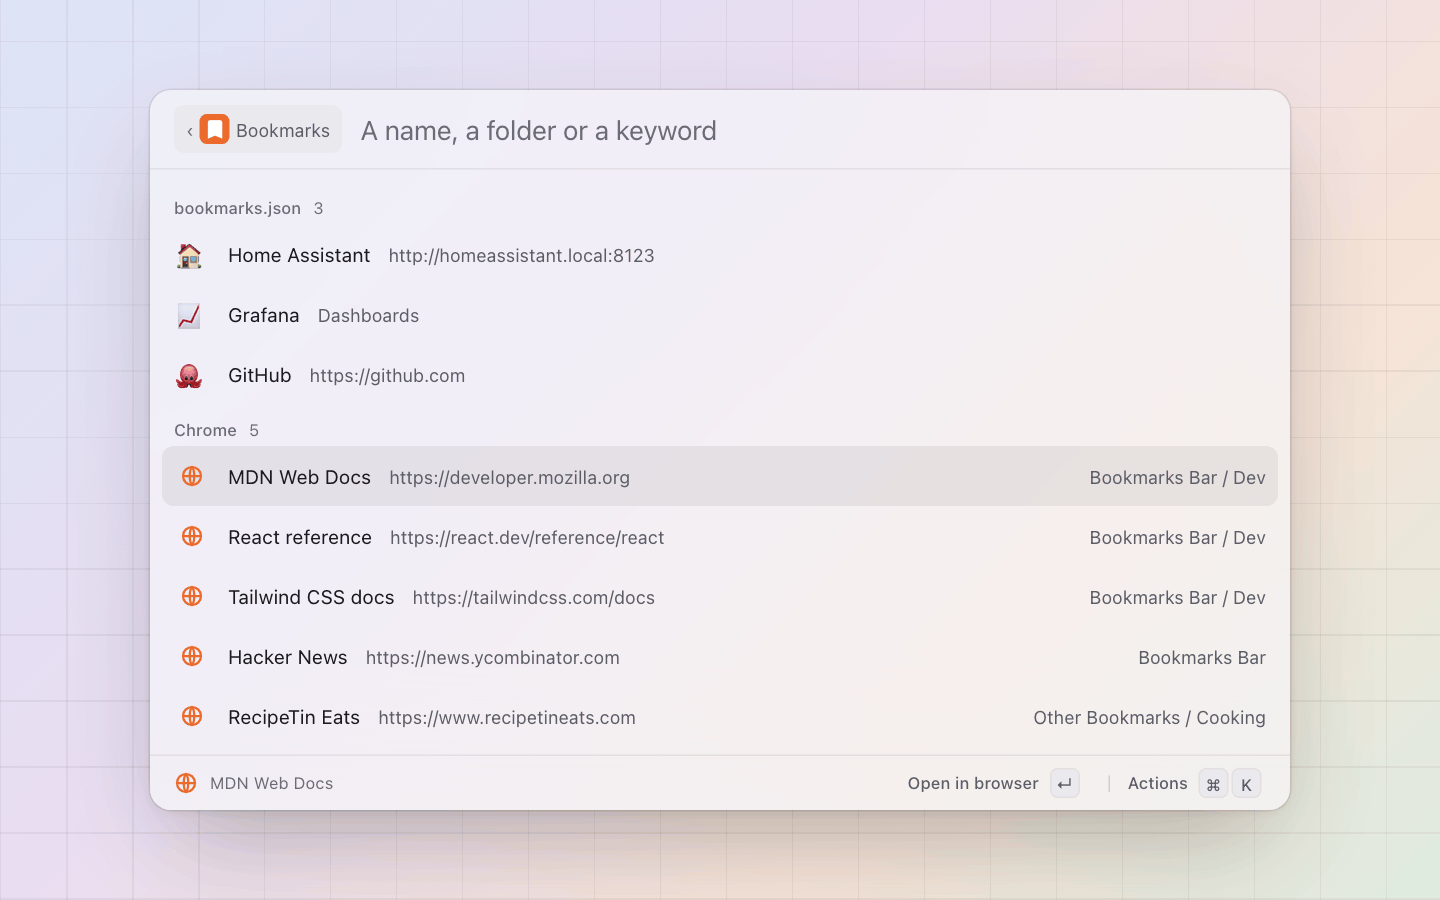
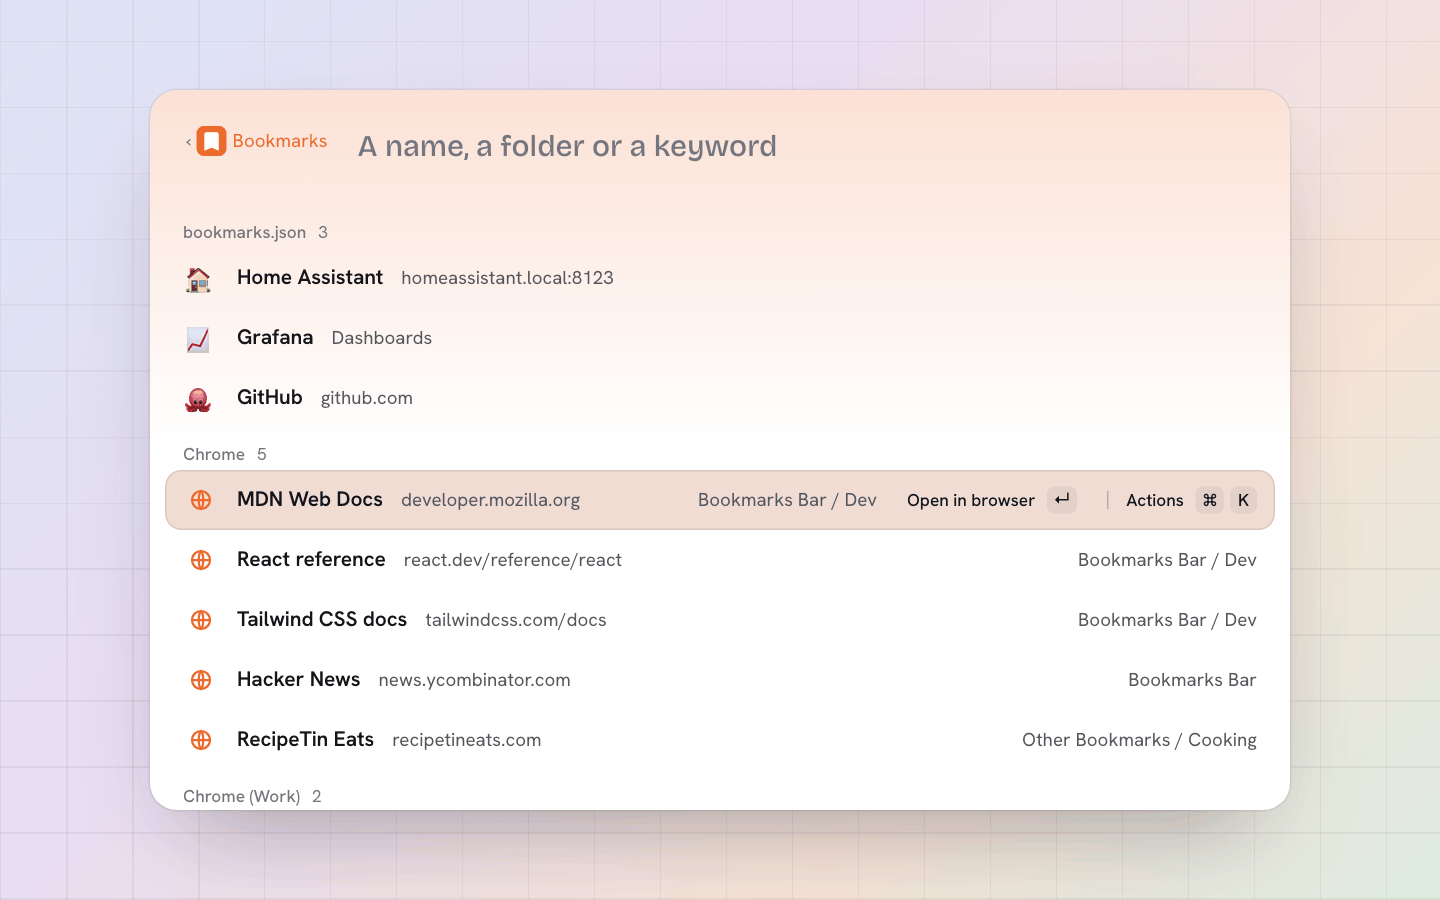
bookmarks: the subtitle is the bare address (no scheme, no www), in the history palette too

Changed region(s): [[0.0938, 0.0933, 0.9062, 0.9022], [0.625, 0.8711, 0.6562, 0.9022]]

diff --git a/test/bookmarks.test.ts b/test/bookmarks.test.ts
@@ -222,7 +222,7 @@ describe("bookmarks", () => {
   test("the file's rows first: url as id, keywords, icon only when set, the palette's three actions (said once, not per row)", async () => {
     const items = await list();
     expect(items[0]).toEqual({
-      id: "http://ha.lan", name: "Home Assistant", subtitle: "http://ha.lan", icon: "🏠", keywords: ["ha", "home"], url: "http://ha.lan", section: "bookmarks.json",
+      id: "http://ha.lan", name: "Home Assistant", subtitle: "ha.lan", icon: "🏠", keywords: ["ha", "home"], url: "http://ha.lan", section: "bookmarks.json",
     });
     expect(host.loaded().find((l) => l.extension === "bookmarks")!.palettes[0].actions).toEqual([
       { id: "open", title: "Open in browser", multi: true }, { id: "copy", title: "Copy link", shortcut: "cmd+c", multi: true }, { id: "copy-markdown", title: "Copy as markdown", shortcut: "cmd+shift+c", multi: true },
@@ -239,7 +239,7 @@ describe("bookmarks", () => {
     // Chrome's GitHub is the file's url: the file won; Safari's too.
     expect(ids.filter((i) => i === "https://github.com")).toHaveLength(1);
     const bun = items.find((i) => i.id === "https://bun.sh")!;
-    expect(bun).toMatchObject({ name: "Bun", subtitle: "https://bun.sh", url: "https://bun.sh", keywords: ["Bookmarks Bar", "Dev"], accessories: [{ text: "Bookmarks Bar / Dev" }], section: "Chrome (Default)" });
+    expect(bun).toMatchObject({ name: "Bun", subtitle: "bun.sh", url: "https://bun.sh", keywords: ["Bookmarks Bar", "Dev"], accessories: [{ text: "Bookmarks Bar / Dev" }], section: "Chrome (Default)" });
     expect(bun.icon).toBeUndefined();
     expect(bun.actions!.map((a) => [a.id, a.title, !!a.multi])).toEqual([["open", "Open in browser", true], ["copy", "Copy link", true], ["copy-markdown", "Copy as markdown", true], ["open-in:Google Chrome", "Open in Chrome", true]]);
     // A bookmark saved without a name is named by its bare address, and the address is not said again under it.
@@ -337,7 +337,7 @@ describe("history", () => {
       ["https://example.com/untitled", "Chrome (Default)"],
     ]);
     expect(items[0]).toEqual({
-      id: "https://bun.sh/docs", name: "Bun docs", subtitle: "https://bun.sh/docs", url: "https://bun.sh/docs", accessories: [{ date: T - 60_000 }], section: "Chrome (Default)",
+      id: "https://bun.sh/docs", name: "Bun docs", subtitle: "bun.sh/docs", url: "https://bun.sh/docs", accessories: [{ date: T - 60_000 }], section: "Chrome (Default)",
       actions: [{ id: "open-in:Google Chrome", title: "Open in Chrome", multi: true }, { id: "copy", title: "Copy link", shortcut: "cmd+c", multi: true }, { id: "open", title: "Open in default browser", shortcut: "cmd+o", multi: true }],
     });
     expect(items[1].actions![0].title).toBe("Open in Firefox");

diff --git a/bookmarks/index.ts b/bookmarks/index.ts
@@ -120,7 +120,7 @@ async function list(): Promise<Item[]> {
     const name = titleOf(r.name, r.url);
     known.set(r.url, { name });
     // The file's rows take the palette's three actions (said once); a browser's rows below add "Open in <browser>" and so say their own. A nameless bookmark is named by its address and says nothing twice.
-    items.push({ id: r.url, name, subtitle: r.subtitle ?? (name === bareUrl(r.url) ? undefined : r.url), icon: r.icon?.trim() || undefined, keywords: r.keywords, url: r.url, section });
+    items.push({ id: r.url, name, subtitle: r.subtitle ?? (name === bareUrl(r.url) ? undefined : bareUrl(r.url)), icon: r.icon?.trim() || undefined, keywords: r.keywords, url: r.url, section });
   }
   const { sources, problems } = await browserSources(s.browsers);
   for (const src of sources) {
@@ -131,7 +131,7 @@ async function list(): Promise<Item[]> {
       items.push({
         id: f.url,
         name: f.name,
-        subtitle: f.name === bareUrl(f.url) ? undefined : f.url,
+        subtitle: f.name === bareUrl(f.url) ? undefined : bareUrl(f.url),
         keywords: [...new Set(f.folder.filter(Boolean))],
         url: f.url,
         accessories: f.folder.length ? [{ text: f.folder.join(" / ") }] : [],

diff --git a/bookmarks/history.ts b/bookmarks/history.ts
@@ -12,6 +12,7 @@
 // browser as the section; Enter opens it in the browser it came from.
 import { errorMessage, failed, settings, type Action, type Ctx, type Effect, type Item } from "@zcag/pal";
 import { BROWSERS, chromiumProfiles, copied, firefoxProfiles, openIn } from "./browsers.ts";
+import { bareUrl } from "./sources.ts";
 
 /** `[extensions.bookmarks]`, the key this palette reads. */
 type Settings = { browsers: string[] };
@@ -96,7 +97,7 @@ function row(v: Visit & { section: string; app: string }): Item {
   return {
     id: v.url,
     name: v.title,
-    subtitle: v.url,
+    subtitle: bareUrl(v.url),
     url: v.url,
     accessories: [{ date: v.at }],
     section: v.section,

diff --git a/bookmarks/README.md b/bookmarks/README.md
@@ -7,7 +7,7 @@ browser or the file shows at once. A url two sources have is listed once,
 the first wins: the file's rows come first, then each browser in the
 `browsers` setting's order.
 
-The file's rows show `subtitle` (the url when absent), an `icon` (a glyph,
+The file's rows show `subtitle` (the address when absent), an `icon` (a glyph,
 emoji or hex colour; a row with a url and no icon gets the site's favicon)
 and match their `keywords`. Browser rows sit in a section per browser and
 profile (`Chrome`, `Chrome (Work)`, `Safari`, `Firefox`), carry the folder
